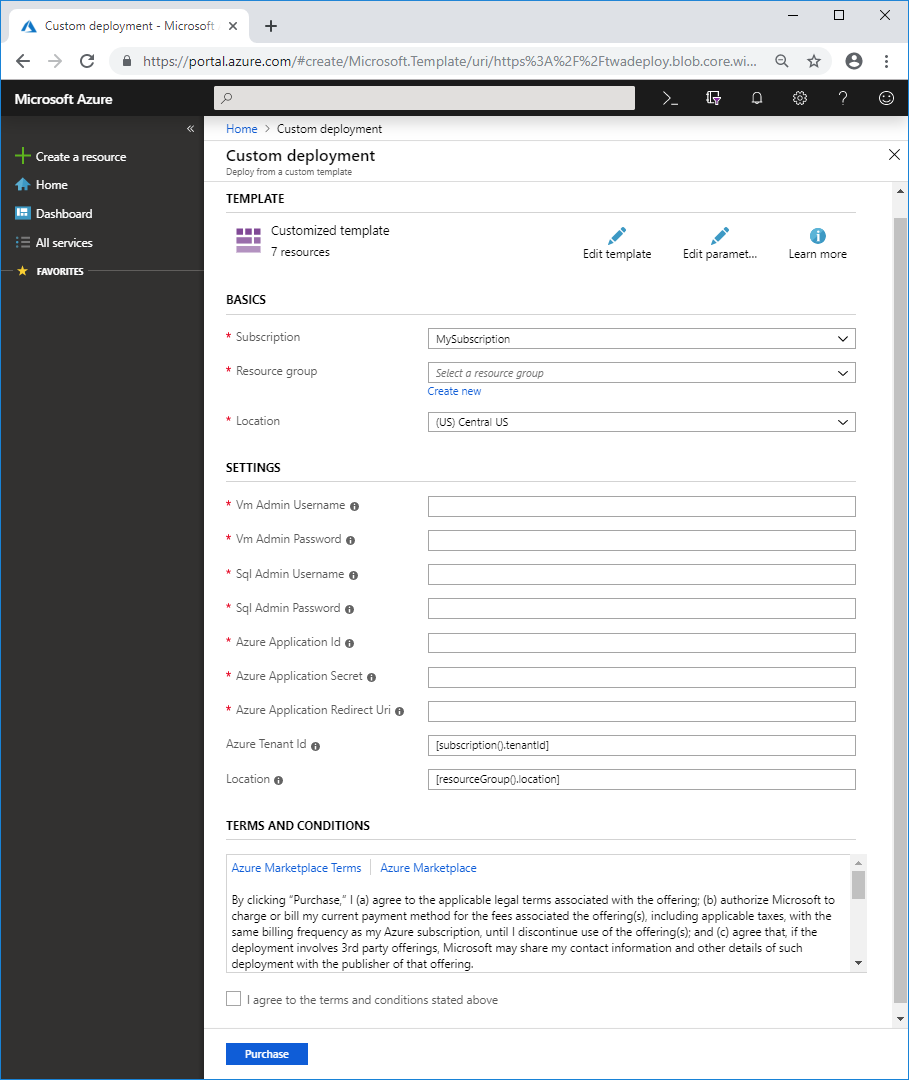
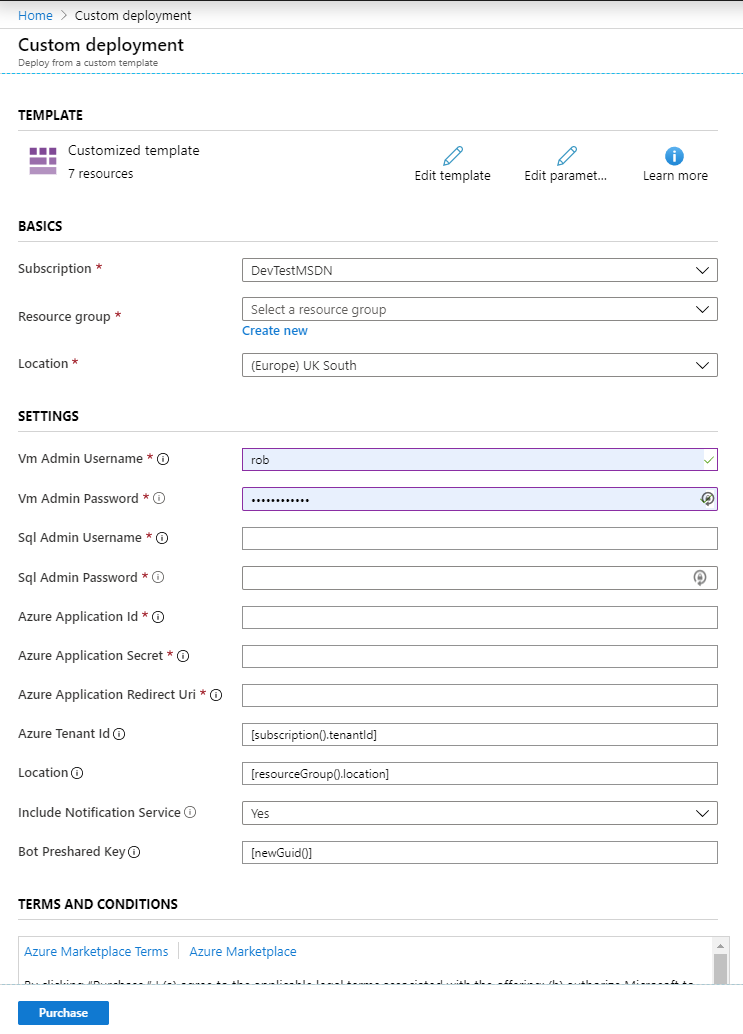
Update documentation around TWA installation

diff --git a/twa/deploytwa.md b/twa/deploytwa.md
@@ -34,14 +34,36 @@ This ARM Template will install resources in your Azure tenant. The template will
        > Note: If you used a different Tenant ID when [registering an application](registerapplication.md), you must delete the contents of this field and enter the correct Tenant ID.
      - **Location** - The geographical location of the Azure resources that will host Teamwork Analytics. By default this field uses `[resourceGroup().location]`, which gets automatically replaced with location of the chosen Resource Group. Optionally you can delete this and enter the name of a different location.
        > Note: Do not include the region prefix in brackets, e.g. use "Central US" rather than "(US) Central US".
-   
+     - **Include Notification Service** - Yes / No field. The Notification Service is an additional feature required to send pro-active messages to users via Bot/Email to improve adoption. Set to Yes if you plan to use the Teamwork Analytics bot. 
+        > Note: For more information about the Teamwork Analytics bot, see [How to deploy the Teamwork Analytics Bot App into Teams](deployteamsapp.md).
+      - **Bot Preshared Key** - A password used to secure the bot service. By default this field uses `[newGuid()]`, which gets replaced with a randomly generated globally unique password.
+        > Note: This is a mandatory field, if you don't want to include the Bot, leave the default and it will have no effect.
+
+        > Note: This must be in the Global Unique Identifier (GUID) format. See [here](http://guid.one/guid) for more information.
+
 3. Read the Terms and Conditions and click 'Purchase' (this refers to the resources hosted on Azure, and is not a usage agreement for Teamwork Analytics.)
+
+4. Once the deployment is complete, if you have opted to include the Notification Service, you will need to provide the Bot Preshared Key to Modality to allow us to authenticate with your deployment. If you left the default of `[newGuid()]`, you need to retrieve the value from Deployment history;
+  
+      a. In the Resource Group which you chose to deploy to, click Deployments on the left hand menu under settings, and then click the latest deployment (at the top) as below
+      ![Deployment History](images/deployments-list.png)
+
+      b. Once open, click inputs and retrieve the value for xx and pass it on to the Modality team as shown below.
+      ![Bot Key in Inputs](images/bot-pre-shared-key.png)
 
 ## Upgrading
 
 When an upgrade is available, you will be sent a link to an ARM template. The process for upgrading is identical to installation (see above), except that you will choose an existing Resource Group, rather than creating a new one.
 
 Azure Resource Manager analyses the difference from past deployments, and only changes what it needs to.
+
+If you need to recover the settings from a previous deploy, you can do this via the Resource Group deployment history; 
+
+1. In the Resource Group which you chose to deploy to, click Deployments on the left hand menu under settings, and then click the latest deployment (at the top) as below
+![Deployment History](images/deployments-list.png)
+
+2. Once open, click inputs to see the value from the previous deploy.
+![Inputs](images/deployment-inputs.png)
 
 ## Pausing or uninstalling
 
